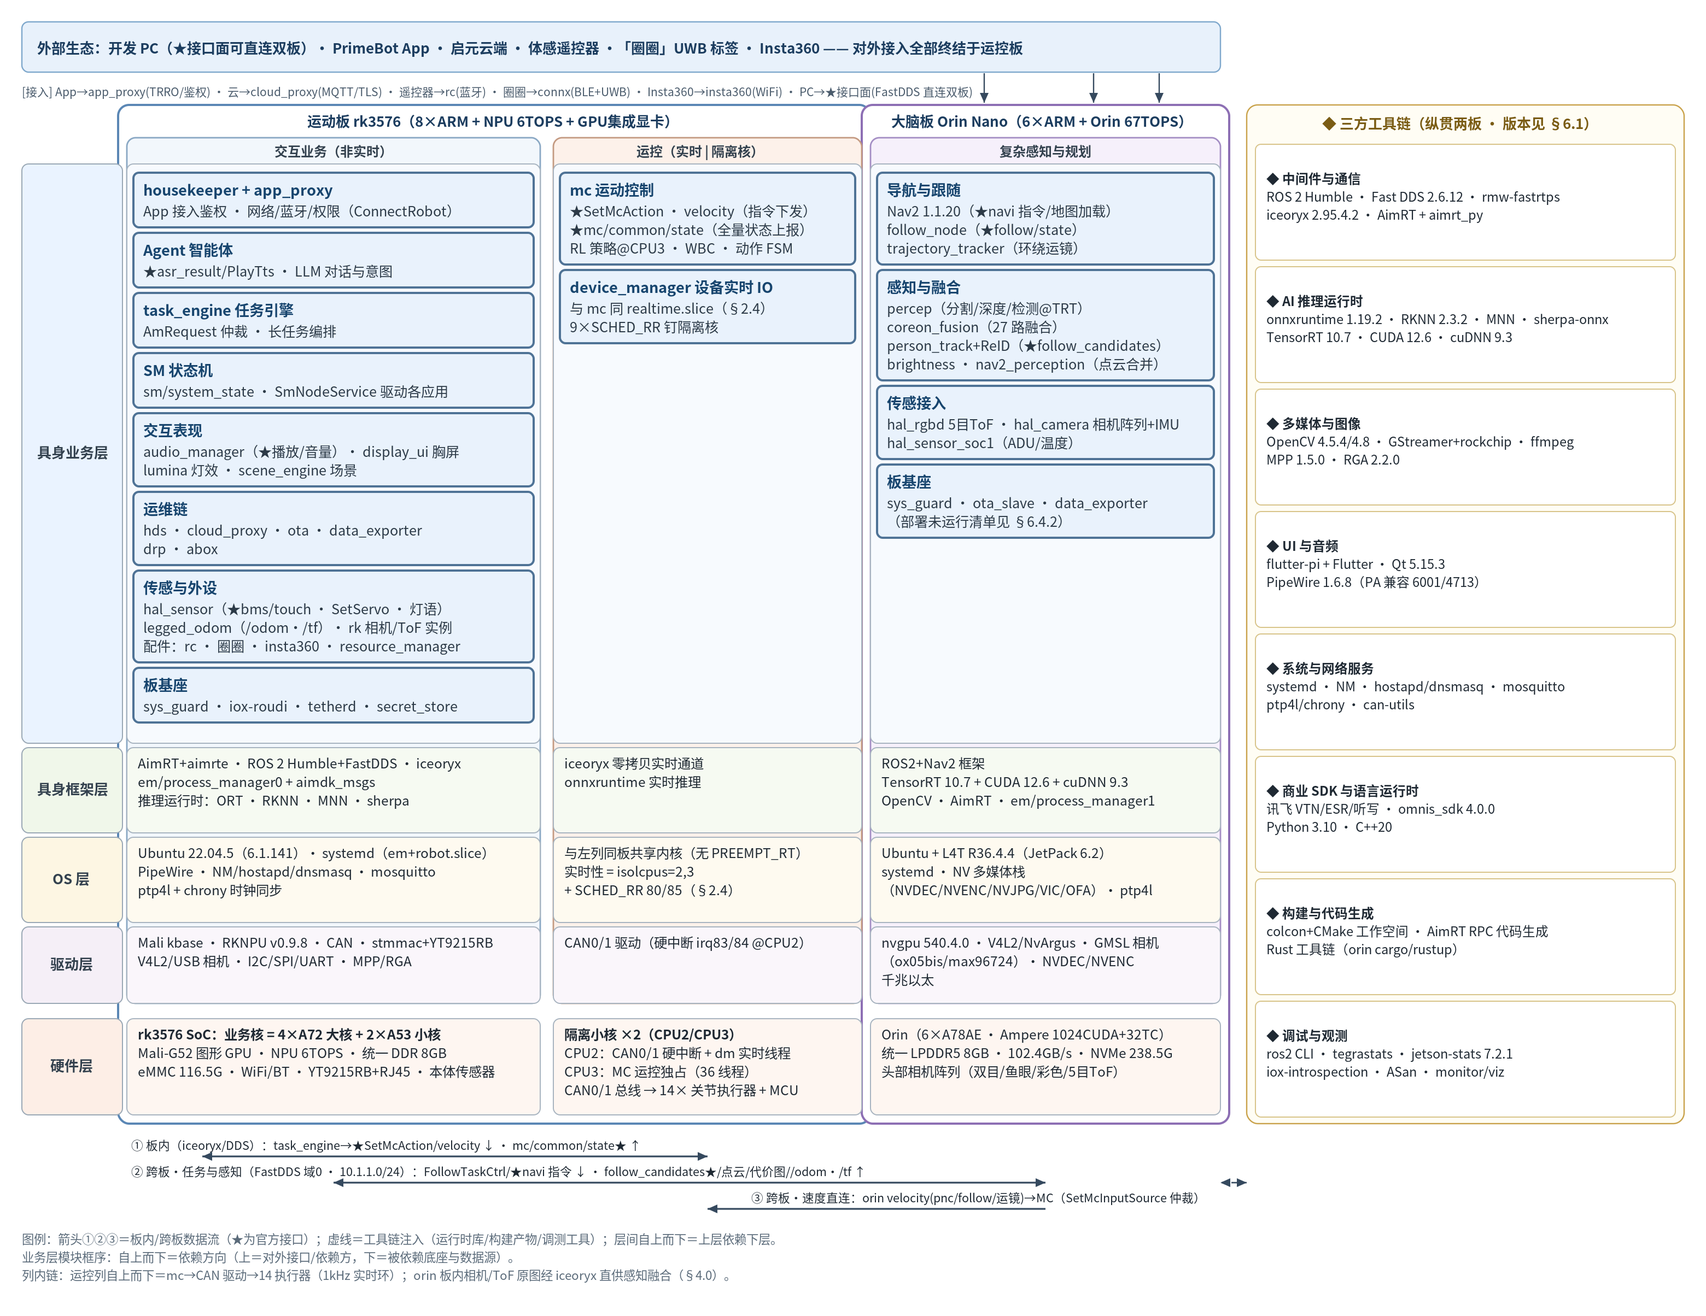
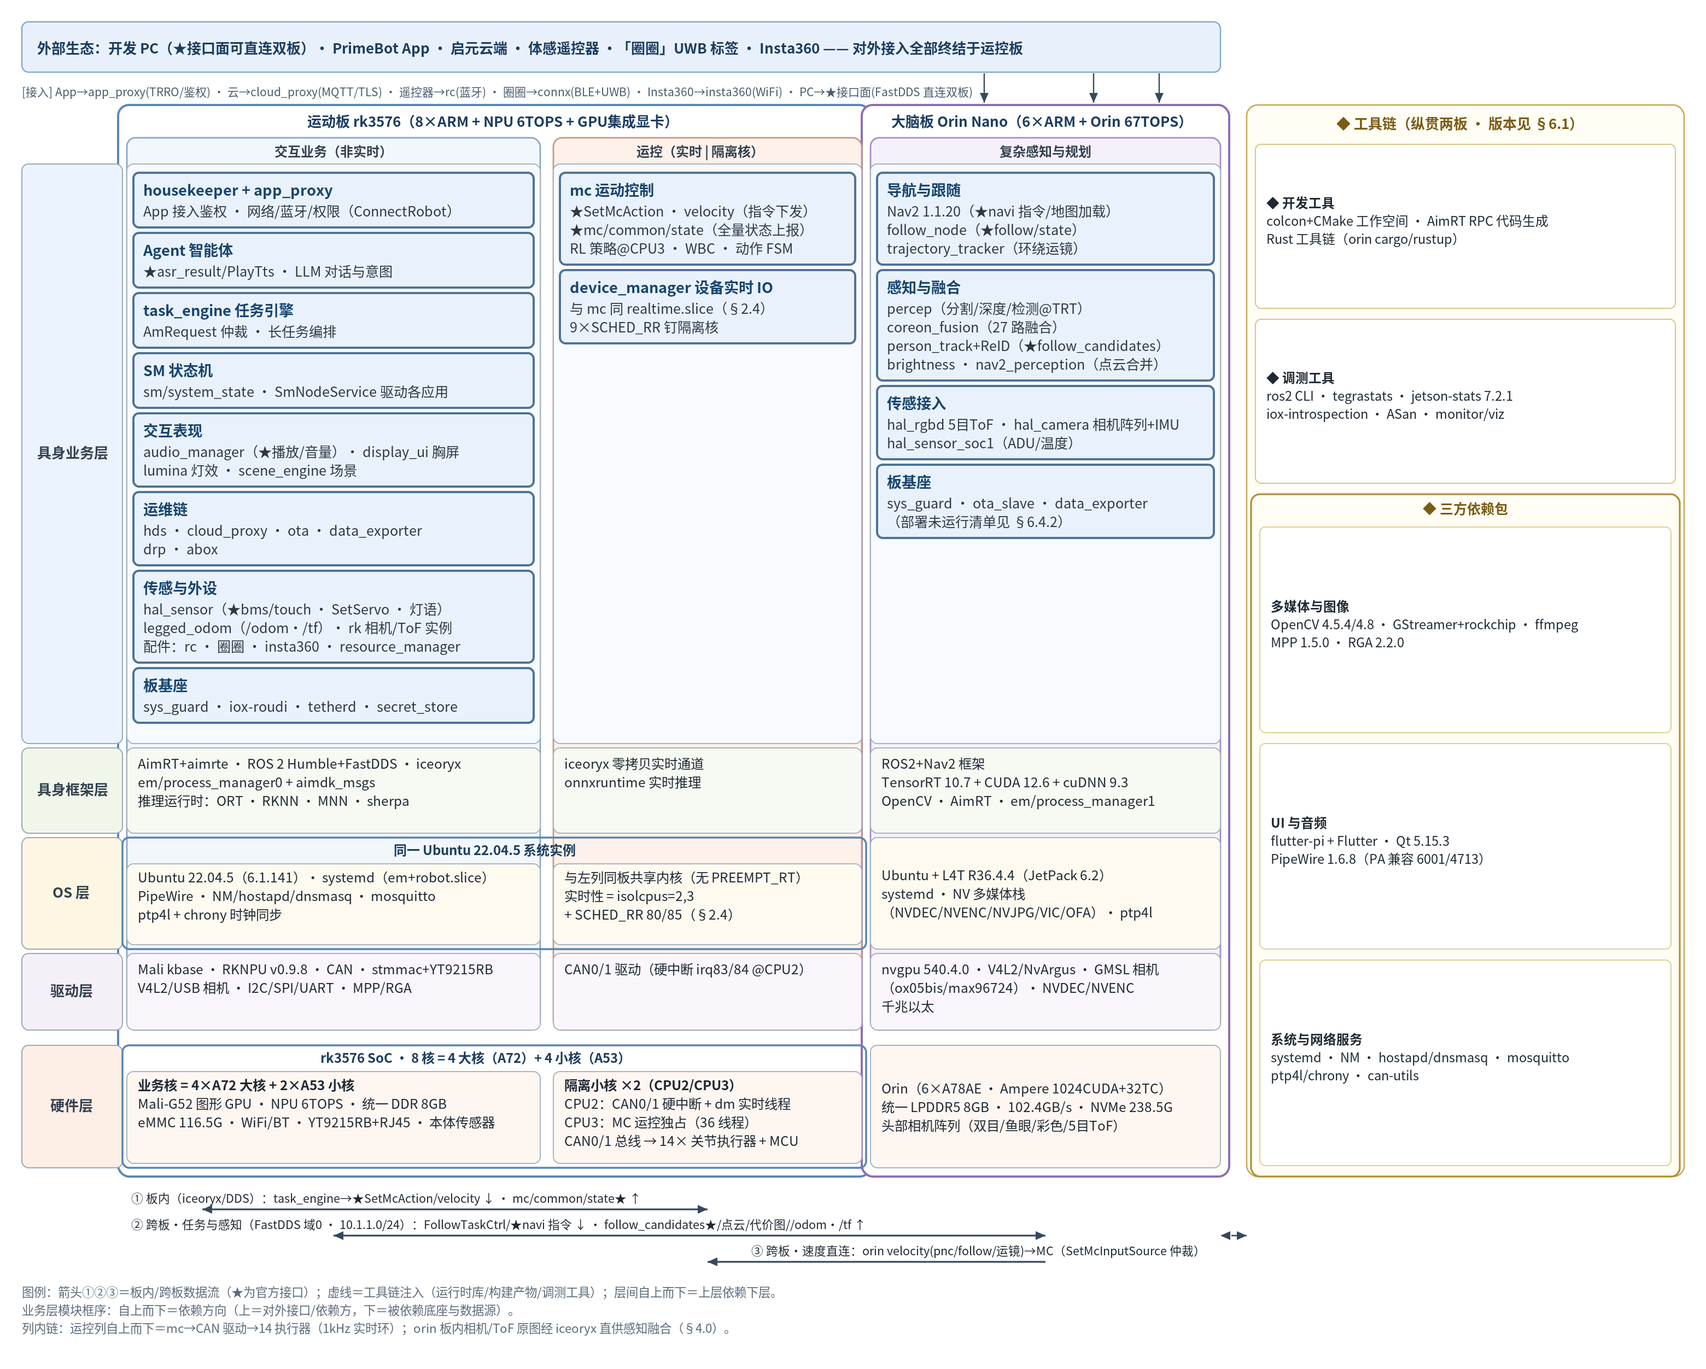
图 7-1 按新要求重构：OS/硬件层 rk 侧外包统一框 + 工具链收拢为三块
- 硬件层：rk 两格外包「rk3576 SoC · 8 核 = 4 大核（A72）+ 4 小核（A53）」
  统一框（落运控板框内），内格细分业务核与隔离小核 CPU2/CPU3
- OS 层：rk 两列（同板同 Ubuntu 实例）外包「同一 Ubuntu 22.04.5 系统实例」
  统一框；orin 格独立
- 工具链更名：三方工具链 → 工具链；组重排为 开发工具（原构建与代码生成）
  → 调测工具（原调试与观测）→ 三方依赖包（外包 多媒体与图像/UI 与音频/
  系统与网络服务）；删除 中间件与通信/AI 推理运行时/商业 SDK 三组
  （版本信息保留于 §6.1，框架层单元格含运行时要点）
- 文档同步：排版口径/读法/图注/§7.3 表；图引用 ?v=20261031c
- 核验：Chrome 112/112 文本全渲染 0 缺失；6 个新增元素探针全通过；
  删除组零残留；XML 校验通过

diff --git a/figures/gen_fig_7_1.py b/figures/gen_fig_7_1.py
@@ -57,8 +57,8 @@ C3_X, C3_W = 796, 320                 # orin
 TC_X, TC_W = 1140, 400                # 工具链（纵贯）
 PAD = 8
 BOARD_Y0, BOARD_TITLE_H, PART_TITLE_H = 96, 30, 24
-ROW_H = [530, 78, 78, 70]             # 业务(模块框化)/框架/OS/驱动（部分框内四层）
-HW_H = 88                             # 硬件层（板框内、部分框外）
+ROW_H = [530, 78, 102, 70]            # 业务(模块框化)/框架/OS(含外包框标题带)/驱动（部分框内四层）
+HW_H = 112                            # 硬件层（板框内、部分框外；rk 侧含外包框标题带）
 EXT_Y, EXT_H = 20, 46
 
 PART_Y = BOARD_Y0 + BOARD_TITLE_H                     # 126
@@ -116,7 +116,7 @@ dr_c2 = [('CAN0/1 驱动（硬中断 irq83/84 @CPU2）', False)]
 dr_c3 = [('nvgpu 540.4.0 · V4L2/NvArgus · GMSL 相机', False),
          ('（ox05bis/max96724）· NVDEC/NVENC', False),
          ('千兆以太', False)]
-hw_c1 = [('rk3576 SoC：业务核 = 4×A72 大核 + 2×A53 小核', True),
+hw_c1 = [('业务核 = 4×A72 大核 + 2×A53 小核', True),
          ('Mali-G52 图形 GPU · NPU 6TOPS · 统一 DDR 8GB', False),
          ('eMMC 116.5G · WiFi/BT · YT9215RB+RJ45 · 本体传感器', False)]
 hw_c2 = [('隔离小核 ×2（CPU2/CPU3）', True),
@@ -199,49 +199,96 @@ for ri, (lname, cont) in enumerate(ROWS):
     t, _ = text_block(0, yt + h // 2 + 4, [(lname, True)], fs=13, color='#33414e',
                       center=LBL_X + LBL_W // 2, maxw=LBL_W - 10)
     S.append(t)
+    if ri == 1:
+        # OS 层：rk 两列同属一个 Ubuntu 22.04.5 实例 → 外包统一框（落在运控板框内）
+        WH = 24
+        S.append(box(112, yt, 680, h, 'none', '#5b87b5', 1.8, rx=6))
+        t, _ = text_block(0, yt + 16, [('同一 Ubuntu 22.04.5 系统实例', True)], fs=12,
+                          color='#1c3d5f', center=452, maxw=660)
+        S.append(t)
+        for ci in (0, 1):
+            px, pw, *_ = PARTS[ci]
+            ih = h - WH - 4
+            S.append(box(px, yt + WH, pw, ih, FILLS[ri], '#a8b4c0', 1))
+            t, endy = text_block(px + 10, yt + WH + 17, cont[ci], fs=12.2, maxw=pw - 18)
+            S.append(t)
+            assert endy <= yt + WH + ih + 6, f'{lname} 纵向溢出'
+        px, pw, *_ = PARTS[2]
+        S.append(box(px, yt, pw, h, FILLS[ri], '#a8b4c0', 1))
+        t, endy = text_block(px + 10, yt + (h - 17 * len(cont[2])) // 2 + 14,
+                             cont[2], fs=12.2, maxw=pw - 18)
+        S.append(t)
+        assert endy <= yt + h + 6, f'{lname} 纵向溢出'
+        continue
     for ci, (px, pw, *_ ) in enumerate(PARTS):
         S.append(box(px, yt, pw, h, FILLS[ri], '#a8b4c0', 1))
         t, endy = text_block(px + 10, yt + 19, cont[ci], fs=12.2, maxw=pw - 18)
         S.append(t)
         assert endy <= yt + h + 6, f'{lname} 纵向溢出'
 
-# 硬件层（板框内、部分框外）
+# 硬件层（板框内、部分框外）；rk 侧两格外包「rk3576 8 核」统一框（落在运控板框内）
 S.append(box(LBL_X, HW_Y, LBL_W, HW_H, LBL_FILLS[4], '#9aa8b5', 1))
 t, _ = text_block(0, HW_Y + HW_H // 2 + 4, [('硬件层', True)], fs=13, color='#33414e',
                   center=LBL_X + LBL_W // 2, maxw=LBL_W - 10)
 S.append(t)
-for px, pw, cont in ((C1_X, C1_W, hw_c1), (C2_X, C2_W, hw_c2), (C3_X, C3_W, hw_c3)):
-    S.append(box(px, HW_Y, pw, HW_H, HW_FILL, '#a8b4c0', 1))
-    t, endy = text_block(px + 10, HW_Y + 19, cont, fs=12.2, maxw=pw - 18)
+WHW = 24
+S.append(box(112, HW_Y, 680, HW_H, 'none', '#5b87b5', 1.8, rx=6))
+t, _ = text_block(0, HW_Y + 16, [('rk3576 SoC · 8 核 = 4 大核（A72）+ 4 小核（A53）', True)],
+                  fs=12, color='#1c3d5f', center=452, maxw=660)
+S.append(t)
+for px, pw, cont in ((C1_X, C1_W, hw_c1), (C2_X, C2_W, hw_c2)):
+    ih = HW_H - WHW - 4
+    S.append(box(px, HW_Y + WHW, pw, ih, HW_FILL, '#a8b4c0', 1))
+    t, endy = text_block(px + 10, HW_Y + WHW + 17, cont, fs=12.2, maxw=pw - 18)
     S.append(t)
-    assert endy <= HW_Y + HW_H + 6, '硬件层纵向溢出'
+    assert endy <= HW_Y + WHW + ih + 6, '硬件层纵向溢出'
+px, pw = C3_X, C3_W
+S.append(box(px, HW_Y, pw, HW_H, HW_FILL, '#a8b4c0', 1))
+t, endy = text_block(px + 10, HW_Y + (HW_H - 17 * len(hw_c3)) // 2 + 14,
+                     hw_c3, fs=12.2, maxw=pw - 18)
+S.append(t)
+assert endy <= HW_Y + HW_H + 6, '硬件层纵向溢出'
 
-# ---------- 工具链纵贯列 ----------
+# ---------- 工具链纵贯列（开发工具 / 调测工具 / 三方依赖包） ----------
 S.append(box(TC_X, BOARD_Y0, TC_W, BOARD_BOT - BOARD_Y0, '#fffdf4', '#c9a24b', 1.2, rx=10))
-t, _ = text_block(0, BOARD_Y0 + 22, [('◆ 三方工具链（纵贯两板 · 版本见 §6.1）', True)], fs=13,
+t, _ = text_block(0, BOARD_Y0 + 22, [('◆ 工具链（纵贯两板 · 版本见 §6.1）', True)], fs=13,
                   color='#7a5c14', center=TC_X + TC_W // 2, maxw=TC_W - 20)
 S.append(t)
-groups = [
- ('◆ 中间件与通信', ['ROS 2 Humble · Fast DDS 2.6.12 · rmw-fastrtps', 'iceoryx 2.95.4.2 · AimRT + aimrt_py']),
- ('◆ AI 推理运行时', ['onnxruntime 1.19.2 · RKNN 2.3.2 · MNN · sherpa-onnx', 'TensorRT 10.7 · CUDA 12.6 · cuDNN 9.3']),
- ('◆ 多媒体与图像', ['OpenCV 4.5.4/4.8 · GStreamer+rockchip · ffmpeg', 'MPP 1.5.0 · RGA 2.2.0']),
- ('◆ UI 与音频', ['flutter-pi + Flutter · Qt 5.15.3', 'PipeWire 1.6.8（PA 兼容 6001/4713）']),
- ('◆ 系统与网络服务', ['systemd · NM · hostapd/dnsmasq · mosquitto', 'ptp4l/chrony · can-utils']),
- ('◆ 商业 SDK 与语言运行时', ['讯飞 VTN/ESR/听写 · omnis_sdk 4.0.0', 'Python 3.10 · C++20']),
- ('◆ 构建与代码生成', ['colcon+CMake 工作空间 · AimRT RPC 代码生成', 'Rust 工具链（orin cargo/rustup）']),
- ('◆ 调试与观测', ['ros2 CLI · tegrastats · jetson-stats 7.2.1', 'iox-introspection · ASan · monitor/viz']),
-]
+GAP = 10
 gy = BOARD_Y0 + 36
-GAP = 6
-gh = (BOARD_BOT - gy - GAP * (len(groups) - 1)) // len(groups)   # 动态铺满整列
-for title, lines in groups:
-    S.append(box(TC_X + 8, gy, TC_W - 16, gh, '#ffffff', '#d8c48a', 1, rx=5))
+
+def group_box(x, y, w, h, title, lines, stroke='#d8c48a'):
+    S.append(box(x, y, w, h, '#ffffff', stroke, 1, rx=5))
     content_h = 15 + int(16.6 * (1 + len(lines)))
-    ty = gy + max(14, (gh - content_h) // 2 + 15)
-    t, endy = text_block(TC_X + 18, ty, [(title, True)] + [(l, False) for l in lines],
-                         fs=11.8, lh=16.6, maxw=TC_W - 32)
+    ty = y + max(14, (h - content_h) // 2 + 15)
+    t, _ = text_block(x + 10, ty, [(title, True)] + [(l, False) for l in lines],
+                      fs=11.8, lh=16.6, maxw=w - 20)
     S.append(t)
-    gy += gh + GAP
+
+top_boxes = [
+ ('◆ 开发工具', ['colcon+CMake 工作空间 · AimRT RPC 代码生成', 'Rust 工具链（orin cargo/rustup）']),
+ ('◆ 调测工具', ['ros2 CLI · tegrastats · jetson-stats 7.2.1', 'iox-introspection · ASan · monitor/viz']),
+]
+dep_groups = [
+ ('多媒体与图像', ['OpenCV 4.5.4/4.8 · GStreamer+rockchip · ffmpeg', 'MPP 1.5.0 · RGA 2.2.0']),
+ ('UI 与音频', ['flutter-pi + Flutter · Qt 5.15.3', 'PipeWire 1.6.8（PA 兼容 6001/4713）']),
+ ('系统与网络服务', ['systemd · NM · hostapd/dnsmasq · mosquitto', 'ptp4l/chrony · can-utils']),
+]
+TB_H = 150
+wrapper_h = (BOARD_BOT - gy) - TB_H * 2 - GAP * 2
+for title, lines in top_boxes:
+    group_box(TC_X + 8, gy, TC_W - 16, TB_H, title, lines)
+    gy += TB_H + GAP
+# 「三方依赖包」大框：把三组依赖包在一起
+S.append(box(TC_X + 4, gy, TC_W - 8, wrapper_h, 'none', '#b08e30', 1.6, rx=8))
+t, _ = text_block(0, gy + 18, [('◆ 三方依赖包', True)], fs=12.5, color='#7a5c14',
+                  center=TC_X + TC_W // 2, maxw=TC_W - 20)
+S.append(t)
+sy = gy + 30
+sub_h = (wrapper_h - 30 - 8 - GAP * (len(dep_groups) - 1)) // len(dep_groups)
+for title, lines in dep_groups:
+    group_box(TC_X + 12, sy, TC_W - 24, sub_h, title, lines, stroke='#e0cf96')
+    sy += sub_h + GAP
 
 # ---------- ①②③通信线（图底部） ----------
 c1c, c2c, c3c = C1_X + C1_W // 2, C2_X + C2_W // 2, C3_X + C3_W // 2
@@ -274,4 +321,4 @@ try:
     cairosvg.svg2png(url='figures/fig-7-1-layered-arch.svg', write_to='figures/fig-7-1-layered-arch.png', scale=2.0)
 except Exception as e:
     print('PNG 跳过（无 cairosvg）:', e)
-print(f'OK -> figures/fig-7-1-layered-arch.svg  ({len(out)} bytes, 画布 1560×{H}, 板底 {BOARD_BOT}px, 组框高 {gh}px')
+print(f'OK -> figures/fig-7-1-layered-arch.svg  ({len(out)} bytes, 画布 1560×{H}, 板底 {BOARD_BOT}px, 依赖子框高 {sub_h}px')

diff --git a/t1-pro-orin-rk-analysis.md b/t1-pro-orin-rk-analysis.md
@@ -1485,18 +1485,18 @@ sequenceDiagram
 
 ### 7.1 逻辑视图（双板纵切 × 五层横切 × 工具链纵贯）
 
-**排版口径**：**纵向（列）**按部署域切分为三部分——运控板 rk 的「交互业务（非实时）」与「运控执行（实时）」两列 + 大脑板 orin 的「复杂感知与规划」一列；**横向（行）**自上而下为**具身业务层 → 具身框架层 → OS 层 → 驱动层 → 硬件层**五层（即自底向上：硬件→驱动→OS→框架→业务）；**最右侧为纵贯全部层级的「三方工具链」大框**。因 mermaid 自动布局无法锁定矩阵式行列顺序，本图由脚本生成 **SVG 矢量图**（`figures/gen_fig_7_1.py` → `figures/fig-7-1-layered-arch.svg`，仓库同时提供 PNG 版 `fig-7-1-layered-arch.png`），行列位置精确可控，并直接画出板内/跨板数据流与工具链注入连线。按 4+1 视图口径，**本图即逻辑视图**：以具身业务层的功能模块（职责+接口★）为主体，其下框架/OS/驱动层与硬件层作为物理承载一并框出（嵌套结构：**板框 ⊃ 部分框 ⊃ 业务/框架/OS/驱动四层；硬件层在板框内、部分框外**）；模块间接口协作另见 §7.4，场景串联见 §6.2。
+**排版口径**：**纵向（列）**按部署域切分为三部分——运控板 rk 的「交互业务（非实时）」与「运控执行（实时）」两列 + 大脑板 orin 的「复杂感知与规划」一列；**横向（行）**自上而下为**具身业务层 → 具身框架层 → OS 层 → 驱动层 → 硬件层**五层（即自底向上：硬件→驱动→OS→框架→业务）；**最右侧为纵贯全部层级的「工具链」大框**。因 mermaid 自动布局无法锁定矩阵式行列顺序，本图由脚本生成 **SVG 矢量图**（`figures/gen_fig_7_1.py` → `figures/fig-7-1-layered-arch.svg`，仓库同时提供 PNG 版 `fig-7-1-layered-arch.png`），行列位置精确可控，并直接画出板内/跨板数据流与工具链注入连线。按 4+1 视图口径，**本图即逻辑视图**：以具身业务层的功能模块（职责+接口★）为主体，其下框架/OS/驱动层与硬件层作为物理承载一并框出（嵌套结构：**板框 ⊃ 部分框 ⊃ 业务/框架/OS/驱动四层；硬件层在板框内、部分框外**）；模块间接口协作另见 §7.4，场景串联见 §6.2。
 
-![图 7-1 逻辑视图（双板纵切 × 五层横切 × 工具链纵贯）](figures/fig-7-1-layered-arch.png?v=20261031b)
+![图 7-1 逻辑视图（双板纵切 × 五层横切 × 工具链纵贯）](figures/fig-7-1-layered-arch.png?v=20261031c)
 
-> **图 7-1 读法**：**板框**（运动板 rk3576 / 大脑板 Orin Nano）⊃ **部分框**（交互业务（非实时）/ 运控（实时｜隔离核）/ 复杂感知与规划，各含具身业务→框架→OS→驱动四层，上层依赖下层）（正文为缩略显示，点击图片可放大至原生分辨率）；**硬件层**在板框内、部分框正下方（rk3576 框标明业务核=4×A72 大核+2×A53 小核，CAN 框标明 2×隔离小核 CPU2/CPU3）；**具身业务层内每模块独立成框，框序自上而下=依赖方向（上=对外接口/依赖方，下=被依赖底座与数据源）**；最右列为工具链纵贯；**①②③通信线统一画在图底部**。
+> **图 7-1 读法**：**板框**（运动板 rk3576 / 大脑板 Orin Nano）⊃ **部分框**（交互业务（非实时）/ 运控（实时｜隔离核）/ 复杂感知与规划，各含具身业务→框架→OS→驱动四层，上层依赖下层）（正文为缩略显示，点击图片可放大至原生分辨率）；**硬件层**在板框内、部分框正下方（**rk 侧两格外包统一框：rk3576 8 核＝4×A72 大核＋4×A53 小核**，内格细分业务核〔4×A72＋2×A53〕与 2×隔离小核 CPU2/CPU3）；**OS 层 rk 两列同属一个 Ubuntu 22.04.5 系统实例**（外包统一框，共享内核与系统服务）；**具身业务层内每模块独立成框，框序自上而下=依赖方向（上=对外接口/依赖方，下=被依赖底座与数据源）**；最右列为**工具链**纵贯（**开发工具 → 调测工具 → 三方依赖包**〔多媒体与图像 · UI 与音频 · 系统与网络服务〕）；**①②③通信线统一画在图底部**。
 > **连线与交互**（图上带编号的箭头）：**① 板内**（rk 业务⇄运控，iceoryx/DDS）——task_engine→★SetMcAction/velocity ↓，mc→★mc/common/state ↑；**② 跨板·任务与感知**（rk 业务⇄orin，内部以太网 10.1.1.0/24 · FastDDS 域 0）——FollowTaskCtrl/★navi 指令 ↓，★follow_candidates/点云/代价图、/odom·/tf ↑（只走结果级数据，相机原图板内消化）；**③ 跨板·速度直连**（orin→MC）——nav2/follow/运镜发布 velocity(pnc/follow)，MC 按 SetMcInputSource 仲裁；**外部接入**——App→app_proxy(TRRO/鉴权)、云→cloud_proxy(MQTT/TLS)、遥控器→rc(蓝牙)、圈圈→connx(BLE+UWB)、Insta360→insta360(WiFi)，全部终结于 rk；PC ★接口面 FastDDS 直连双板；**虚线**=工具链注入。模块级全量接口见 §7.4，连接视角见 §7.2。
 
 读图要点（含对本图排版方案的事实核对，依据 §1–§6 实测）：
 
 1. **纵切核对 ✅ 符合事实**：「交互业务（非实时）vs 运控执行（实时）」的划分与 cgroup/slice 实证一致（§6.4.3：interaction/system/auxiliary=非实时业务，realtime=mc+device_manager）；运控执行列的实时性载体是 **CPU2（CAN 硬中断+dm 设备线程）/CPU3（mc 运控）隔离核 + 9×SCHED_RR**（§2.4）；「大脑板=复杂感知与规划」与 manifest 归类一致（感知独立模块/跟随算法节点/导航算法模块，§6.4.2）。补充事实：rk 的传感与外设接入类（hal_sensor、配件等）属非实时列。
 2. **五层横切核对 ✅ 基本合理**，与板上实际栈一致，但有三点按事实修正/注记：① **ROS 2/AimRT/iceoryx/推理运行时归「具身框架层」而非 OS 层**——OS 层只放内核+systemd+系统服务；② **运控执行列没有独立 RT 内核**（无 PREEMPT_RT，靠 isolcpus+SCHED_RR，已在该列 OS 层如实标注）；③ 按 4+1 严格口径，硬件/驱动/OS 层属物理/过程视图成分，**逻辑视图本体=具身业务层的功能模块及其接口**（图中已为每个业务模块标注职责与代表接口★），纯逻辑协作图见 §7.4。
-3. **工具链框扩为 8 组**（§6.1 实测为准）：在原 6 组（中间件/AI 运行时/多媒体/UI 音频/系统服务/商业 SDK）基础上，新增 **🏗 构建与代码生成**（colcon+CMake 工作空间、AimRT RPC 代码生成脚本、Rust 工具链）与 **🔍 调试与观测**（ros2 CLI、tegrastats、jetson-stats、iox-introspection 工具集、em_run_asan.sh、AimRT monitor/viz 插件）两组——均有板载实证。
+3. **工具链框收拢为三块**（版本以 §6.1 实测为准）：**开发工具**（colcon+CMake 工作空间、AimRT RPC 代码生成、Rust 工具链）→ **调测工具**（ros2 CLI、tegrastats、jetson-stats 7.2.1、iox-introspection、ASan、AimRT monitor/viz）→ **三方依赖包**（外包「多媒体与图像 / UI 与音频 / 系统与网络服务」三组）；中间件与通信、AI 推理运行时、商业 SDK 三组不再单列成框——推理运行时要点已见于框架层单元格，完整版本与开源仓以 §6.1 为准。
 4. **跨板边界只走结果级数据**：rk↔orin 经内部以太网 FastDDS 域 0 交换目标/点云/代价图与任务指令；相机原图等大带宽在 orin 板内经 iceoryx 消化（§4.0）。
 5. **一套以太网、一个 ROS 2 域**：PC/rk/orin 同处 `10.1.1.0/24`（§1）；rk 是对外网关，**对外接入（App/云/遥控器/圈圈/Insta360）全部终结于运控板**。
 6. **两列同板共享 OS/驱动/硬件**：运控执行列的 OS/驱动/硬件层标注「与左列共享」及该列特有部分（隔离调度、CAN 中断、执行器总线），避免误解为独立系统。
@@ -1627,7 +1627,7 @@ flowchart TB
 | 外部·APP | PrimeBot App | 手机端 | — | 遥控/配置/看画面 | 经 app_proxy：`ConnectRobot`、TRRO 透传 |
 | 外部·CLOUD | 启元云端 | — | — | 云协同/OTA/数据 | 经 cloud_proxy/ota_master（MQTT/TLS） |
 | 外部·配件 | 遥控器 / 圈圈 / Insta360 | 外部设备 | — | 体感操控 / UWB 随行 / 云台拍摄 | 经 rc / quanji / insta360 接入模块 |
-| 工具链 | 三方工具/包/框架（6 组） | 随各模块链接/加载 | — | 中间件通信 / AI 推理运行时 / 多媒体图像 / UI 音频 / 系统网络服务 / 商业 SDK | 版本与开源仓见§6.1–6.1.3 |
+| 工具链 | 开发/调测工具与三方依赖包 | 随各模块链接/加载 | — | 开发工具（colcon/Rust）· 调测工具（ros2 CLI/tegrastats 等）· 依赖包（多媒体图像 / UI 音频 / 系统网络服务）；中间件与 AI 运行时等版本见 §6.1 | 版本与开源仓见§6.1–6.1.3 |
 | rk·交互与业务层 | Agent 对话智能体 | aima-agent-app | `/aimrt_agent_node` | LLM 语音对话、语义意图、交互决策 | ★`PlayTts`、★`asr_result`、`semantic_intent` |
 | rk·交互与业务层 | 任务引擎 | task_engine | `/task_engine` | 长任务编排与仲裁中枢（P12/S39/V30/C51 全图最重） | `AmRequest`、`PlayMove`、`NaviTaskCtrl`、★`ShutdownTask` |
 | rk·交互与业务层 | 胸屏 UI | flutter-pi(display_ui) | —（非 ROS） | 胸屏表情渲染 | 经 `display_state`/`PlayEmotion` 链联动 |
